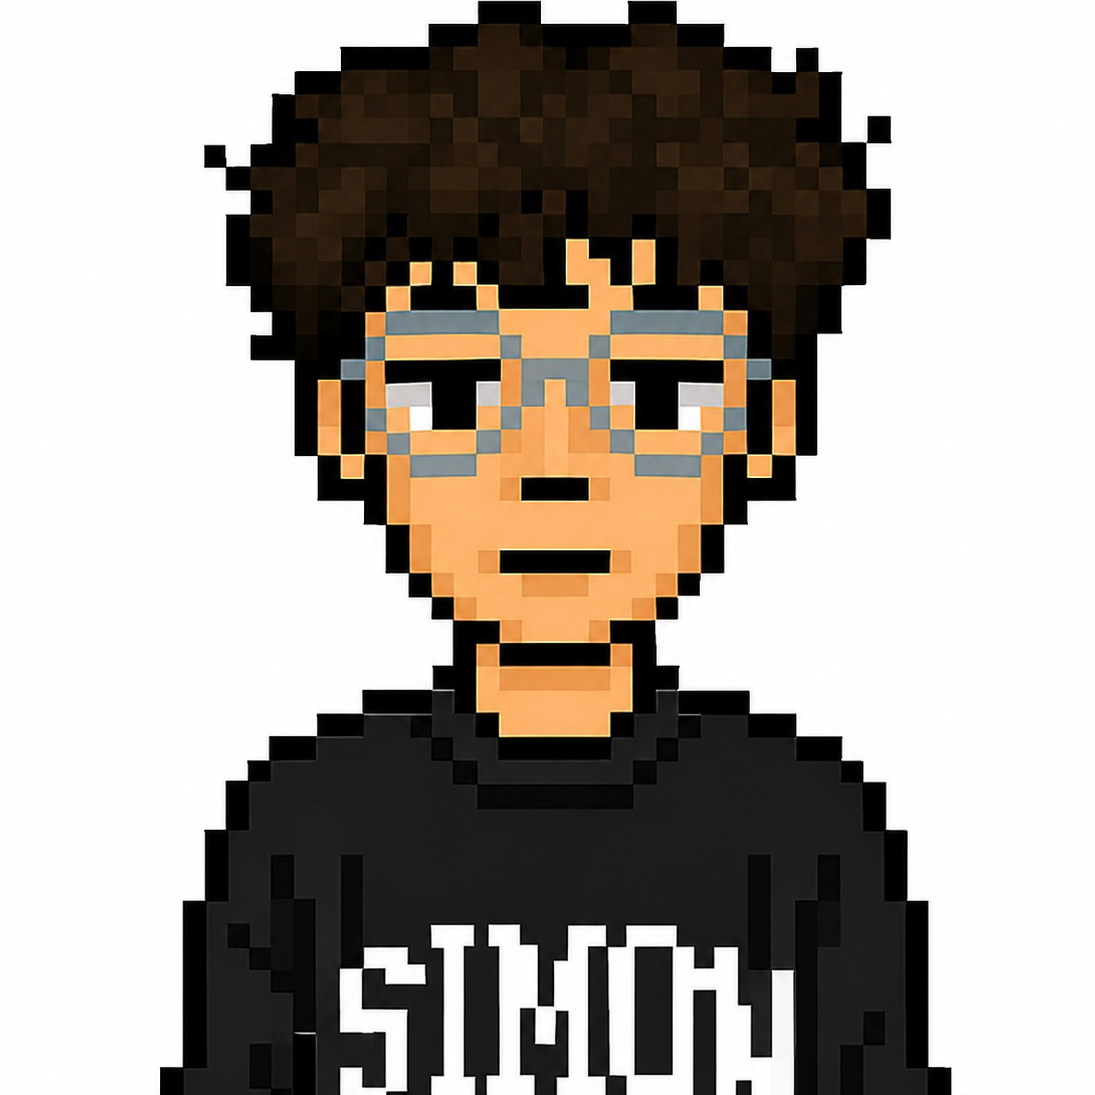
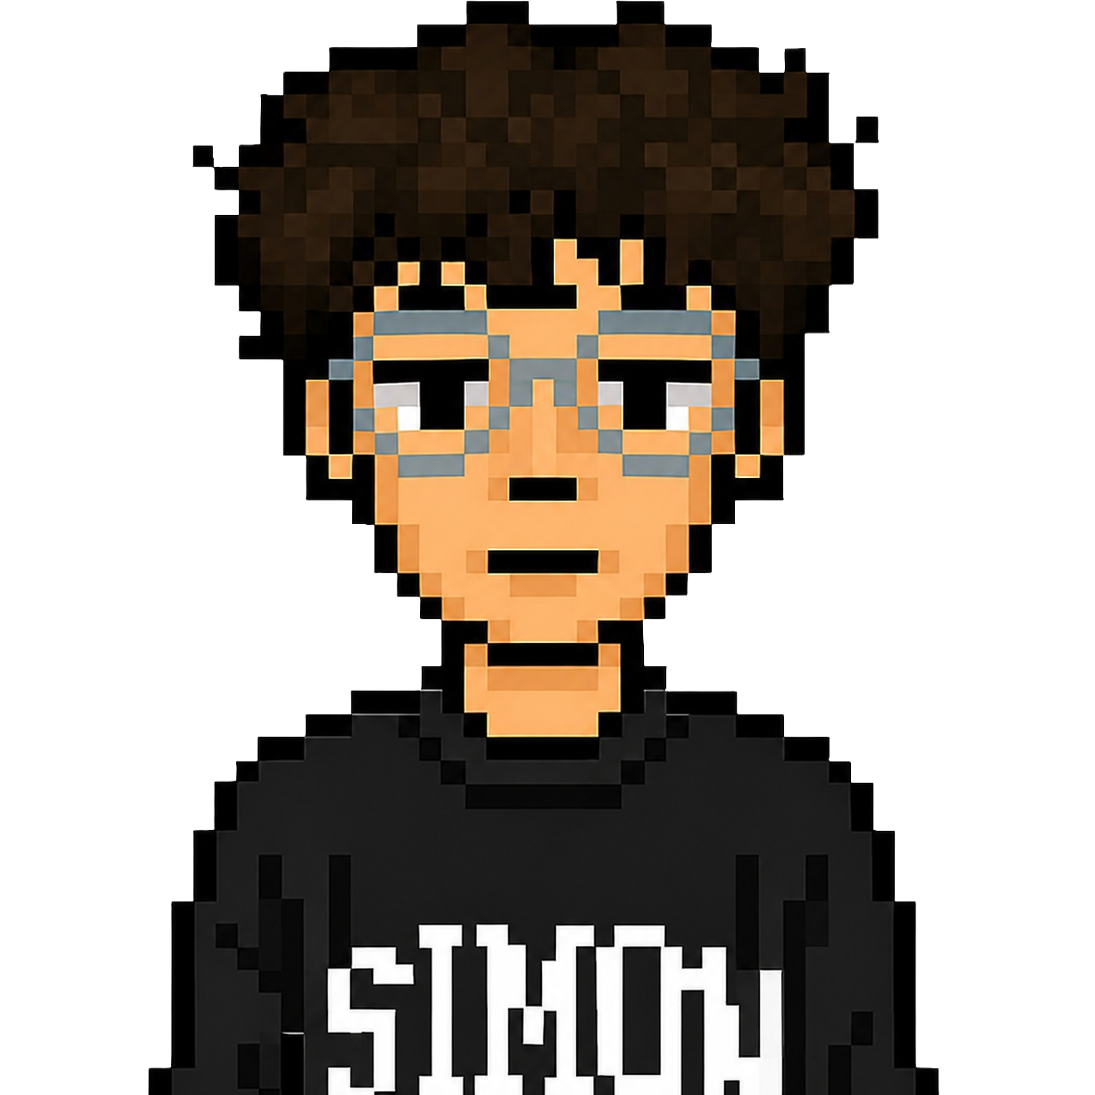
update image

diff --git a/src/i18n/content.ts b/src/i18n/content.ts
@@ -50,18 +50,18 @@ export const contentByLocale: Record<Locale, Content> = {
     ],
     experience: [
       { type: "list", id: "experience", title: "Experience", items: [
-        { title: "雲科鋼琴社", sub: "副社長", meta: "2025 – 2026" },
-        { title: "開展營晚會表演", sub: "活動副召", meta: "2025/09/02" },
-        { title: "社團博覽會", sub: "社團博覽會", meta: "2025/09/10" },
-        { title: "鋼琴社迎新", sub: "活動工人", meta: "2025/09/10" },
-        { title: "上學期期初社大", sub: "活動總召", meta: "2025/09/24"},
-        { title: "園遊會", sub: "活動工人", meta: "2025/12/06" },
-        { title: "鋼琴社上學期期末音樂會", sub: "活動總召", meta: "2025/12/10"},
-        { title: "下學期期初社大", sub: "活動工人", meta: "2026/03/04"},
-        { title: "社遊", sub: "活動工人", meta: "2026/04/11"},
-        { title: "鋼琴社下學期期末音樂會", sub: "活動工人", meta: "2026/05/20"},
-        { title: "幹部改選", sub: "活動總召", meta: "2026/05/27"},
-        { title: "幹部訓練", sub: "活動總召", meta: "2026/06/27"},
+      { title: "YunTech Piano Club", sub: "Vice President", meta: "2025 – 2026" },
+      { title: "Freshman Orientation Gala", sub: "Event Co-organizer", meta: "2025/09/02" },
+      { title: "Student Club Fair", sub: "Club Representative", meta: "2025/09/10" },
+      { title: "Piano Club Welcome Party", sub: "Event Staff", meta: "2025/09/10" },
+      { title: "First-Semester Opening Gathering", sub: "Event Lead", meta: "2025/09/24" },
+      { title: "Campus Carnival", sub: "Event Staff", meta: "2025/12/06" },
+      { title: "Piano Club Fall Semester Concert", sub: "Event Lead", meta: "2025/12/10" },
+      { title: "Second-Semester Opening Gathering", sub: "Event Staff", meta: "2026/03/04" },
+      { title: "Piano Club Trip", sub: "Event Staff", meta: "2026/04/11" },
+      { title: "Piano Club Spring Semester Concert", sub: "Event Staff", meta: "2026/05/20" },
+      { title: "Club Leadership Election", sub: "Event Lead", meta: "2026/05/27" },
+      { title: "Club Leadership Training", sub: "Event Lead", meta: "2026/06/27" }
         ] },],
 },
     ui: { light: "Switch to light theme", dark: "Switch to dark theme", stack: "// stack", highlights: "// highlights", visit: "Visit", code: "Source", switchLabel: "中文", switchHref: "/zh-tw" },
@@ -90,6 +90,18 @@ export const contentByLocale: Record<Locale, Content> = {
   experience: [
     { type: "list", id: "experience", title: "Experience", items: [
       { title: "職稱", sub: "單位", meta: "2025 – now" },
+      { title: "雲科鋼琴社", sub: "副社長", meta: "2025 – 2026" },
+      { title: "開展營晚會表演", sub: "活動副召", meta: "2025/09/02" },
+      { title: "社團博覽會", sub: "社團博覽會", meta: "2025/09/10" },
+      { title: "鋼琴社迎新", sub: "活動工人", meta: "2025/09/10" },
+      { title: "上學期期初社大", sub: "活動總召", meta: "2025/09/24"},     
+      { title: "園遊會", sub: "活動工人", meta: "2025/12/06" },
+      { title: "鋼琴社上學期期末音樂會", sub: "活動總召", meta: "2025/12/10"},
+      { title: "下學期期初社大", sub: "活動工人", meta: "2026/03/04"},
+      { title: "社遊", sub: "活動工人", meta: "2026/04/11"},
+      { title: "鋼琴社下學期期末音樂會", sub: "活動工人", meta: "2026/05/20"},
+      { title: "幹部改選", sub: "活動總召", meta: "2026/05/27"},
+      { title: "幹部訓練", sub: "活動總召", meta: "2026/06/27"}
     ] },
     // 還可以再加 certifications、competitions、talks 等區塊
   ],
